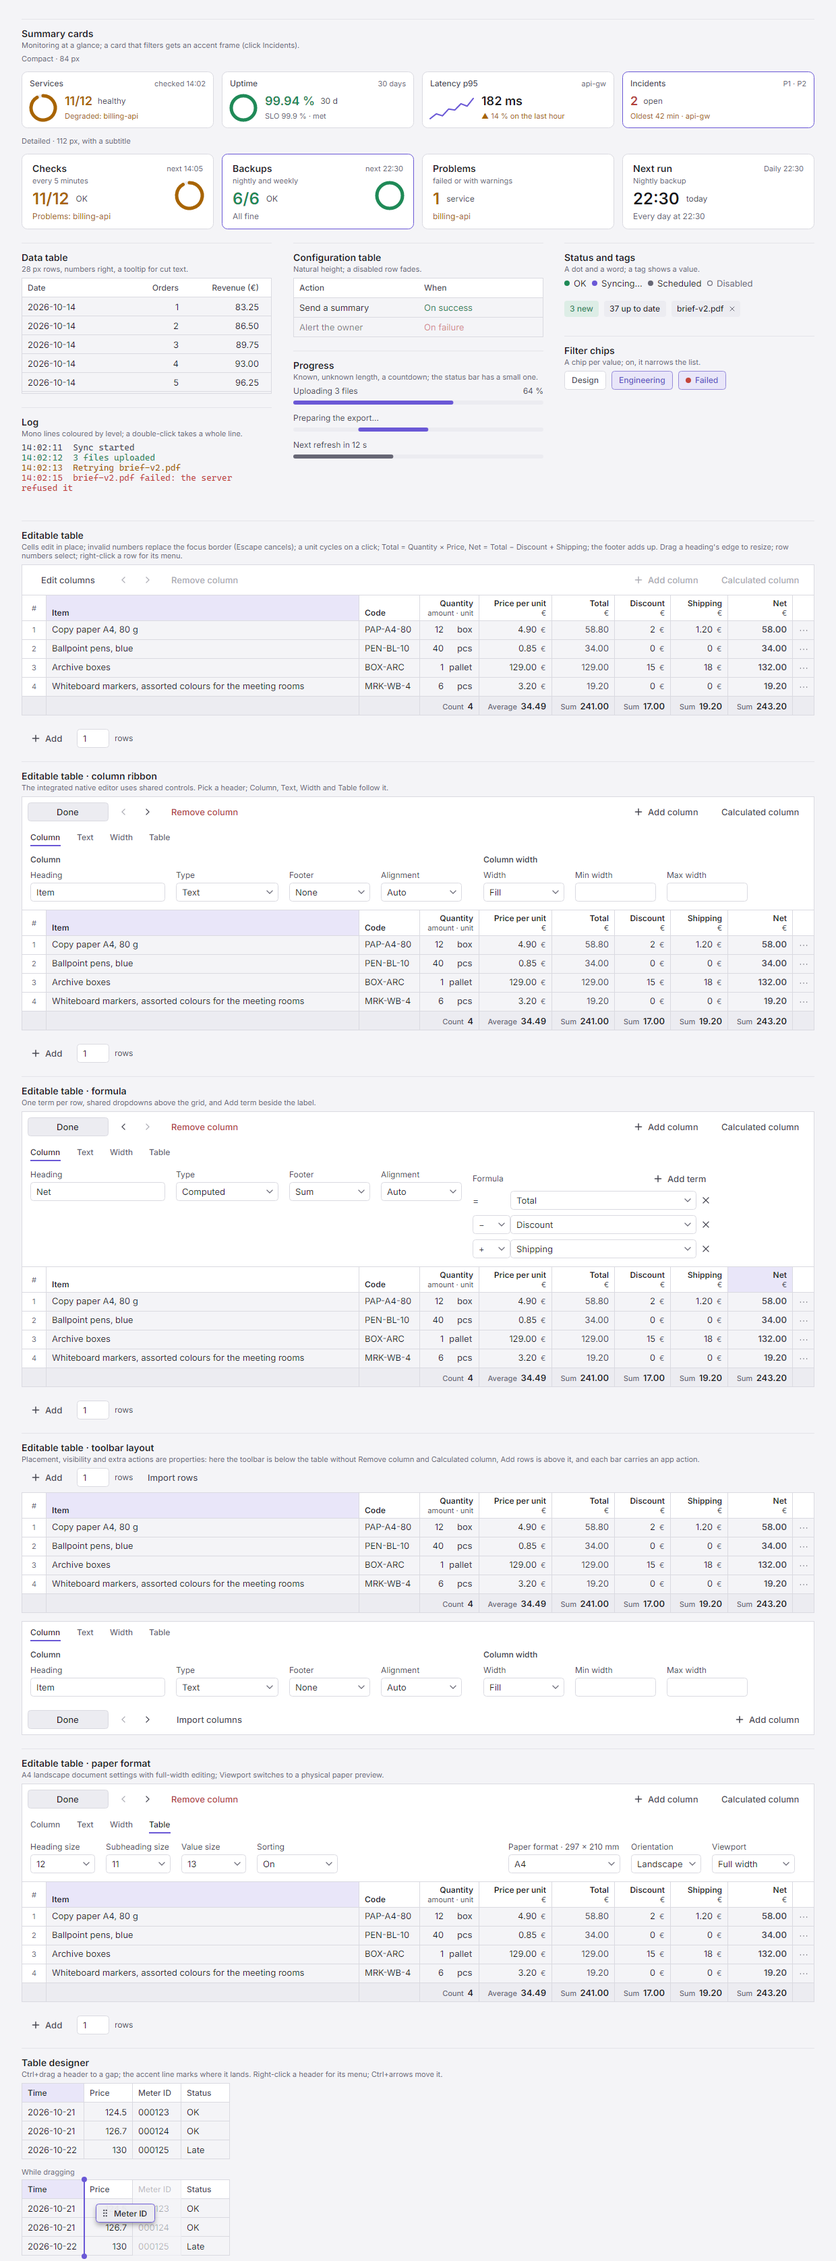
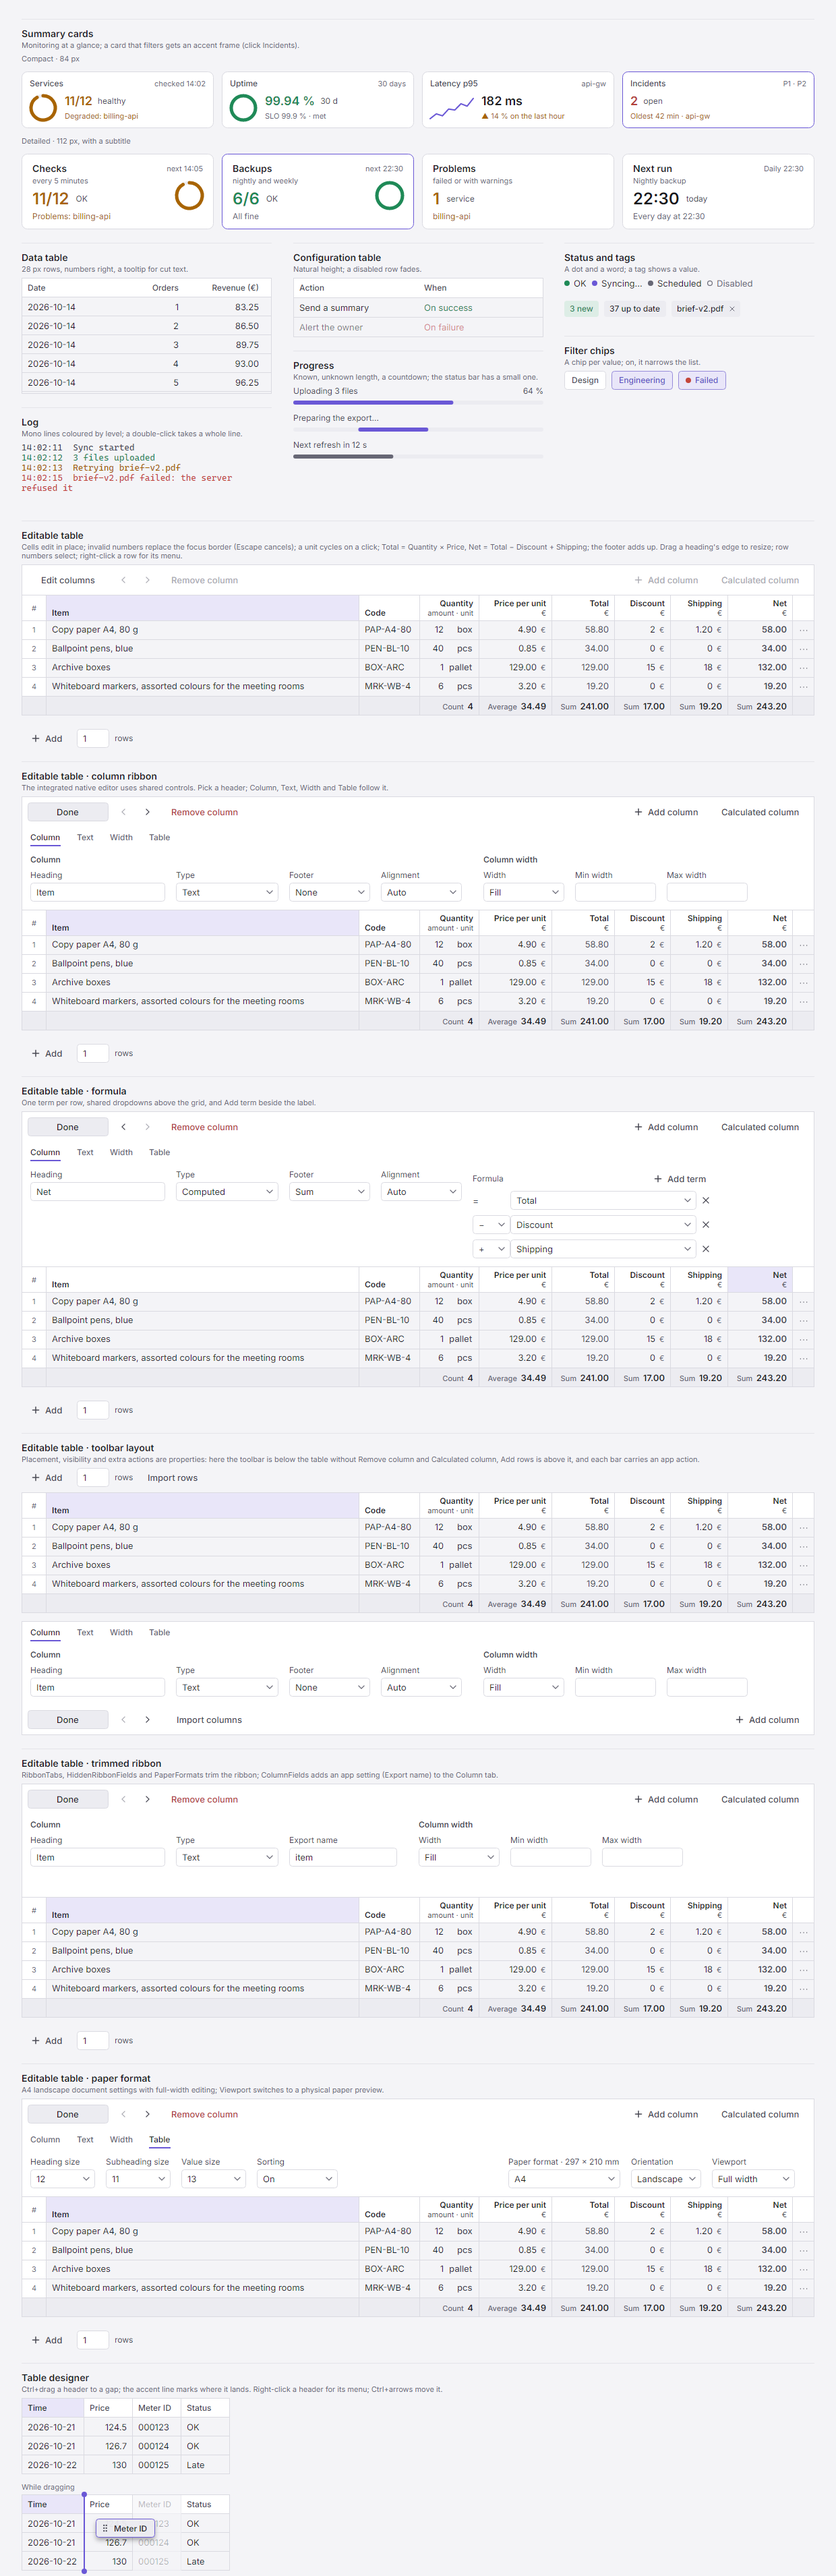
Regenerate docs for the trimmed ribbon demo

diff --git a/docs/index.html b/docs/index.html
@@ -505,6 +505,9 @@
     <div class="block wide"><h4>Editable table</h4><p class="help">Type in any cell; Enter and Shift+Enter go down and up. Invalid numbers show an error and keep the last accepted value; correct the draft or press Escape. Click a unit to change it. Columns fit their content, fill the room left (Item) or keep a fixed width, each with a min and max width; drag a heading's wider edge target to resize (a fill column's minimum; double-click fits). Click a heading to sort: up, down, back to the original order. Click row numbers to select (Ctrl adds, Shift takes a range); right-click or ⋯ for Duplicate, Insert and Delete. Click a footer to choose what it shows. Choose <b>Edit columns</b> in the table toolbar to open the inline ribbon; <b>Done</b> returns to data entry. In edit mode, click a heading to select it; hold Ctrl and drag a heading to a gap (release Ctrl or Esc to cancel), right-click it to insert or remove, Ctrl+←/→ to move.</p>
       <div class="s-grid" id="order-grid"><script type="application/json">{"columns": [{"key": "item", "title": "Item", "type": "text", "grow": true}, {"key": "sku", "title": "Code", "type": "text"}, {"key": "qty", "title": "Quantity", "subtitle": "amount · unit", "type": "unit", "units": ["pcs", "box", "pallet"], "footer": "count"}, {"key": "price", "title": "Price per unit", "subtitle": "€", "type": "number", "decimals": 2, "suffix": "€", "footer": "average"}, {"key": "total", "title": "Total", "subtitle": "€", "type": "computed", "decimals": 2, "footer": "sum", "terms": [{"k": "qty"}, {"op": "×", "k": "price"}]}, {"key": "discount", "title": "Discount", "subtitle": "€", "type": "number", "decimals": 2, "suffix": "€", "footer": "sum"}, {"key": "shipping", "title": "Shipping", "subtitle": "€", "type": "number", "decimals": 2, "suffix": "€", "footer": "sum"}, {"key": "net", "title": "Net", "subtitle": "€", "type": "computed", "decimals": 2, "bold": true, "footer": "sum", "terms": [{"k": "total"}, {"op": "−", "k": "discount"}, {"op": "+", "k": "shipping"}]}], "rows": [{"item": "Copy paper A4, 80 g", "sku": "PAP-A4-80", "qty": "12", "qty:unit": "box", "price": "4.90", "discount": "2", "shipping": "1.20"}, {"item": "Ballpoint pens, blue", "sku": "PEN-BL-10", "qty": "40", "qty:unit": "pcs", "price": "0.85", "discount": "0", "shipping": "0"}, {"item": "Sticky notes 76 × 76 mm", "sku": "NOTE-76", "qty": "2", "qty:unit": "box", "price": "6.40", "discount": "0", "shipping": "0"}, {"item": "Archive boxes", "sku": "BOX-ARC", "qty": "1", "qty:unit": "pallet", "price": "129.00", "discount": "15", "shipping": "18"}, {"item": "Whiteboard markers, assorted colours for the meeting rooms", "sku": "MRK-WB-4", "qty": "6", "qty:unit": "pcs", "price": "3.20", "discount": "0", "shipping": "0"}, {"item": "Desk organiser", "sku": "ORG-DSK", "qty": "3", "qty:unit": "pcs", "price": "12.50", "discount": "1.5", "shipping": "0.80"}]}</script></div>
     </div>
+    <div class="block wide"><h4>Editable table · trimmed ribbon</h4><p class="help"><code>ribbonTabs</code> lists the tabs that show, <code>hiddenFields</code> the field labels to hide, <code>paperFormats</code> the paper presets on offer, and <code>columnFields</code> (<code>{ label, key }</code>) adds a text setting on the column to the Column tab. Here only Column and Width show, Footer and Alignment are hidden, and Export name is the app's own.</p>
+      <div class="s-grid" id="ribbon-grid"><script type="application/json">{"columns": [{"key": "item", "title": "Item", "type": "text", "grow": true}, {"key": "qty", "title": "Quantity", "type": "number"}], "rows": [{"item": "Copy paper A4", "qty": "12"}], "options": {"design": true, "ribbonTabs": ["Column", "Width"], "hiddenFields": ["Footer", "Alignment"], "paperFormats": ["A4", "A5"], "columnFields": [{"label": "Export name", "key": "export"}]}}</script></div>
+    </div>
     <div class="block wide"><h4>Editable table · toolbar layout</h4><p class="help">The options place and trim the bars: <code>toolbar</code> lists the actions that show, <code>toolbarPlacement</code> and <code>addRowsPlacement</code> are <code>top</code>, <code>bottom</code> or <code>hidden</code>, and children marked <code>data-slot="toolbar"</code> or <code>data-slot="add"</code> are the app's own controls. Here the toolbar is below the table without Remove column and Calculated column, Add rows is above it, and each bar carries an action. Right-click a row number: <code>rowActions</code> and <code>rowMenu</code> shape its menu (here with Open record).</p>
       <div class="s-grid" id="toolbar-grid"><button type="button" class="s-btn ghost" data-slot="toolbar">Import columns</button><button type="button" class="s-btn ghost" data-slot="add">Import rows</button><script type="application/json">{"columns": [{"key": "item", "title": "Item", "type": "text", "grow": true}, {"key": "qty", "title": "Quantity", "type": "number"}, {"key": "price", "title": "Price", "type": "number", "decimals": 2, "suffix": "€"}], "rows": [{"item": "Copy paper A4", "qty": "12", "price": "4.90"}, {"item": "Ballpoint pens", "qty": "40", "price": "0.85"}], "options": {"toolbar": ["edit", "move", "add"], "toolbarPlacement": "bottom", "addRowsPlacement": "top", "rowMenu": [{"key": "open", "text": "Open record"}]}}</script></div>
     </div>
